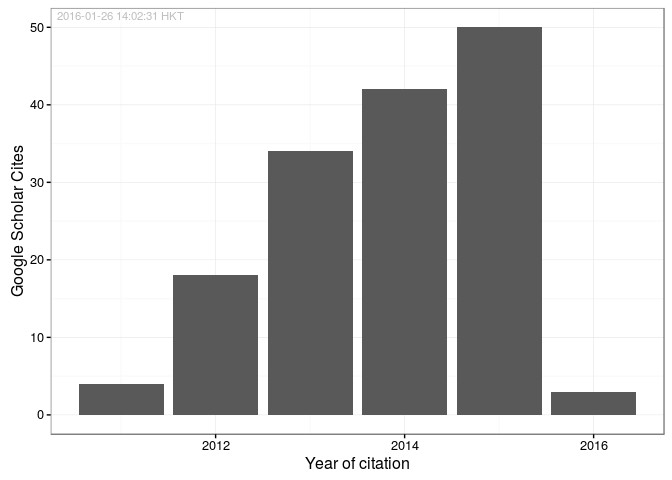
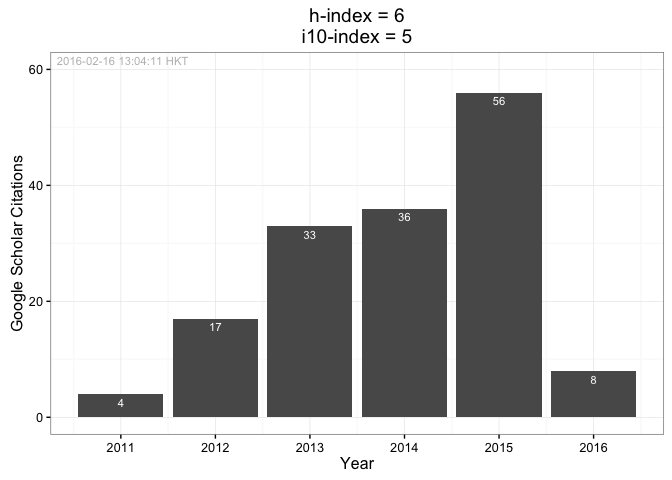
post: google scholar citations

diff --git a/_posts/2016-02-16-google-scholar-citation.md b/_posts/2016-02-16-google-scholar-citation.md
@@ -1,0 +1,32 @@
+---
+title: google scholar citations 2015
+layout: post
+categories: [RStudy]
+tags: [R, ggplot2, Plot]
+image: /figure2016
+---
+{% include JB/setup %}
+
+
+```r
+library(scholar)
+library(ggplot2)
+cit <- get_citation_history('8fX1TSQAAAAJ')
+# '8fX1TSQAAAAJ' is my google scholar id 
+ggplot(cit,aes(x=year,y=cites)) + 
+  geom_bar(stat='identity') +
+  theme_bw() +
+  xlab('Year') +
+  ylab('Google Scholar Citations') + 
+  annotate('text',
+           label=format(Sys.time(), "%Y-%m-%d %H:%M:%S %Z"),
+           x=-Inf, y=Inf, 
+           vjust=1.5, hjust=-0.05,
+           size=3,colour='gray') +
+  geom_text(aes(label=cites), vjust=1.5, color="white", size=3) +
+  scale_y_continuous(limits = c(0, 60)) +
+  scale_x_continuous(breaks=2011:2016) +
+  ggtitle("h-index = 6\ni10-index = 5")
+```
+
+![](/figure2016/scholar-1.png)
